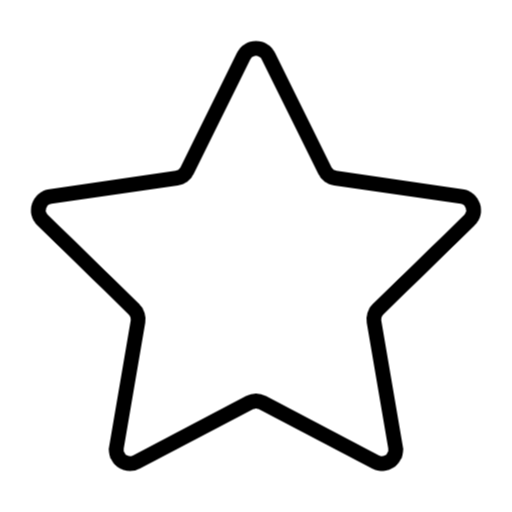
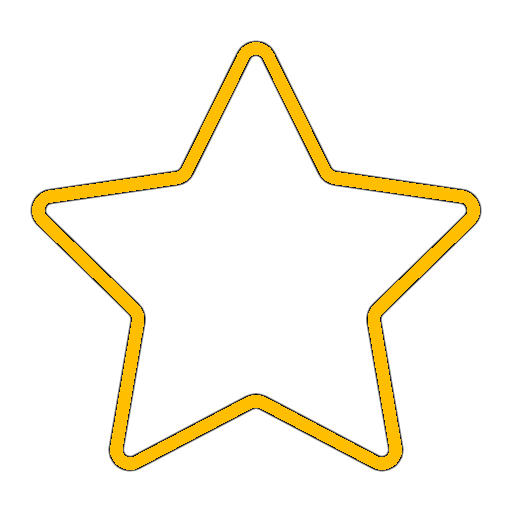
UI - update UI

Changed region(s): [[0.0625, 0.0625, 0.9375, 0.9375]]

diff --git a/src/frontend/online-book-store/src/pages/ShopBooks/BodyContent/BodyContent.js b/src/frontend/online-book-store/src/pages/ShopBooks/BodyContent/BodyContent.js
@@ -553,7 +553,7 @@ function BodyContent() {
     }, [currentPage, showPages]);
 
     return (
-        <div>
+        <div className={cx('body-wrapper')}>
             <div className={cx('wrapper')}>
                 <div className={cx('sidebar')}>
                     <p className={cx('title')}>Explore by category</p>
@@ -604,23 +604,23 @@ function BodyContent() {
                         <Products />
                         <Products />
                     </div>
-                    <div className={cx('footer')}>
-                        <span className={cx('back_btn')} onClick={handleBackPage}>
-                            <FontAwesomeIcon icon={faChevronLeft} />
-                        </span>
-                        <div className={cx('pages')}>
-                            {showPages.map((item, index) => (
-                                <a className={cx('page_item', { active: index === currentPage })} href="/" key={index}>
-                                    {item}
-                                </a>
-                            ))}
+                </div>
+                <div className={cx('footer')}>
+                    <span className={cx('back_btn')} onClick={handleBackPage}>
+                        <FontAwesomeIcon icon={faChevronLeft} />
+                    </span>
+                    <div className={cx('pages')}>
+                        {showPages.map((item, index) => (
+                            <a className={cx('page_item', { active: index === currentPage })} href="/" key={index}>
+                                {item}
+                            </a>
+                        ))}
 
-                            <span className={cx('page_item')}>...</span>
-                        </div>
-                        <span className={cx('next_btn')} onClick={handleNextPage}>
-                            <FontAwesomeIcon icon={faChevronRight} />
-                        </span>
+                        <span className={cx('page_item')}>...</span>
                     </div>
+                    <span className={cx('next_btn')} onClick={handleNextPage}>
+                        <FontAwesomeIcon icon={faChevronRight} />
+                    </span>
                 </div>
             </div>
 

diff --git a/src/frontend/online-book-store/src/pages/Home/components/IntroductionItem/IntroductionItem.js b/src/frontend/online-book-store/src/pages/Home/components/IntroductionItem/IntroductionItem.js
@@ -2,28 +2,26 @@ import classNames from 'classnames/bind';
 import styles from './IntroductionItem.module.scss';
 import Image from '~/components/Image';
 import Button from '~/components/Button';
-import config from '~/config';
 
 const cx = classNames.bind(styles);
 
-function introductionItem({ image, alt, title, paragraph, video }) {
+function introductionItem({ image, alt, title, paragraph, video, to }) {
     return (
         <div className={cx('wrapper')}>
-            {video 
-                ? 
-                    <iframe 
-                        style={{width: '50%', height: '480px'}}
-                        src={`https://www.youtube.com/embed/${video}`}
-                        title='video_demo'
-                        allowFullScreen
-                    >
-                    </iframe> 
-                :
-                    <Image className={cx('image')} src={image} alt={alt} />}
+            {video ? (
+                <iframe
+                    style={{ width: '50%', height: '480px' }}
+                    src={`https://www.youtube.com/embed/${video}`}
+                    title="video_demo"
+                    allowFullScreen
+                ></iframe>
+            ) : (
+                <Image className={cx('image')} src={image} alt={alt} />
+            )}
             <div className={cx('content')}>
                 <p className={cx('title')}>{title}</p>
                 <p className={cx('paragraph')}>{paragraph}</p>
-                <Button to={config.routes.shopbooks} types="findmore">
+                <Button to={to} types="findmore">
                     Find Out More
                 </Button>
             </div>

diff --git a/src/frontend/online-book-store/src/pages/Home/components/IntroductionBlock/IntroductionBlock.js b/src/frontend/online-book-store/src/pages/Home/components/IntroductionBlock/IntroductionBlock.js
@@ -1,4 +1,5 @@
 import IntroductionItem from '../IntroductionItem';
+import config from '~/config';
 
 function IntroductionBlock() {
     const data = [
@@ -8,19 +9,29 @@ function IntroductionBlock() {
             title: 'Books',
             paragraph:
                 'Fantasy, Fiction, Education, Self-Help, Science, Romance, Healing , Classics, Poetry, Plays, Rare Books, History.',
+            to: config.routes.shopbooks,
         },
         {
             image: 'https://www.artnews.com/wp-content/uploads/2022/09/GettyImages-1241066216.jpg?w=1200',
             alt: '',
             title: 'Hi, We are SIBOOKS',
             paragraph:
-                'SIBOOKS allows you to explore over new and second-hand books across various genres, including new releases, classics, kids\' books, young adult novels,...',
+                "SIBOOKS allows you to explore over new and second-hand books across various genres, including new releases, classics, kids' books, young adult novels,...",
             video: 'ZL5A2Qx3y_E',
+            to: config.routes.about,
         },
     ];
 
     return data.map((item, index) => (
-        <IntroductionItem image={item.image} alt={item.alt} title={item.title} paragraph={item.paragraph} video={item.video} key={index} />
+        <IntroductionItem
+            image={item.image}
+            alt={item.alt}
+            title={item.title}
+            paragraph={item.paragraph}
+            video={item.video}
+            to={item.to}
+            key={index}
+        />
     ));
 }
 

diff --git a/src/frontend/online-book-store/src/assets/index.js b/src/frontend/online-book-store/src/assets/index.js
@@ -5,12 +5,17 @@ const images = {
     logo: require('~/assets/Common/Logo.png'),
     homepage_img1: require('~/assets/HomePage/image_events_1.png'),
     homepage_img2: require('~/assets/HomePage/image_events_2.png'),
+    homepage_banner_1: require('~/assets/HomePage/banner_1.png'),
+    homepage_banner_2: require('~/assets/HomePage/banner_2.png'),
+    homepage_banner_3: require('~/assets/HomePage/banner_3.png'),
     homepage_footer_img: require('~/assets/HomePage/footer_img.png'),
     aboutpage_community_1: require('~/assets/About/About_Community_1.png'),
     aboutpage_community_2: require('~/assets/About/About_Community_2.png'),
     aboutpage_community_3: require('~/assets/About/About_Community_3.png'),
     aboutpage_community_4: require('~/assets/About/About_Community_4.png'),
     star_icon: require('~/assets/Common/StarIcon.png'),
+    default_avartar: require('~/assets/Common/defaut_avartar.jpg'),
+    default_background: require('~/assets/Common/default_background.jpg'),
 };
 
 export default images;

diff --git a/src/frontend/online-book-store/src/pages/Profile/Profile.js b/src/frontend/online-book-store/src/pages/Profile/Profile.js
@@ -8,6 +8,7 @@ import InputFieldItem from './components/InputFieldItem';
 import SelectFieldItem from './components/SelectFieldItem';
 import { COUNTRY, CITIES } from './components/Address';
 import Portfolio from './components/Portfolio';
+import assets from '~/assets';
 
 const cx = classNames.bind(styles);
 
@@ -38,11 +39,7 @@ function Profile() {
     return (
         <form className={cx('wrapper')} onSubmit={fakeHandleSubmit}>
             {/* <input type="submit" value="Sbubmit Button" /> */}
-            <Image
-                className={cx('background')}
-                src="https://wallpapers.com/images/hd/funny-cat-flying-peacefully-mtd434pqnxc308j4.jpg"
-                alt="background"
-            />
+            <Image className={cx('background')} src={assets.default_background} alt="background" />
             <div className={cx('core')}>
                 <div className={cx('information')}>
                     <div className={cx('infor_header')}>

diff --git a/src/frontend/online-book-store/src/pages/ShopBooks/BodyContent/BodyContent.module.scss b/src/frontend/online-book-store/src/pages/ShopBooks/BodyContent/BodyContent.module.scss
@@ -5,6 +5,9 @@
     align-items: baseline;
 
     width: 100%;
+    position: relative;
+
+    padding: 64px 12px;
 }
 
 .sidebar {
@@ -84,17 +87,25 @@
 /*  FOOTER  */
 
 .footer {
-    margin-top: 64px;
+    width: 100%;
     display: flex;
     align-items: center;
     justify-content: center;
+
+    background-color: var(--primary-blue);
+    padding: 16px;
+
+    position: absolute;
+    bottom: calc(-84px);
+    left: 0;
+    right: 0;
 }
 
 .back_btn,
 .next_btn {
     padding: 8px 16px;
     font-size: 2.4rem;
-    color: var(--faded-color);
+    color: var(--white);
     cursor: pointer;
 }
 
@@ -110,7 +121,7 @@
     margin-right: 64px;
     padding: 8px 16px;
     text-decoration: none;
-    color: var(--faded-color);
+    color: var(--white);
 
     &:nth-child(1) {
         margin-left: 64px;

diff --git a/src/frontend/online-book-store/src/pages/Profile/components/Portfolio/Portfolio.js b/src/frontend/online-book-store/src/pages/Profile/components/Portfolio/Portfolio.js
@@ -1,17 +1,14 @@
 import classNames from 'classnames/bind';
 import styles from './Portfolio.module.scss';
 import Image from '~/components/Image';
+import assets from '~/assets';
 
 const cx = classNames.bind(styles);
 
 function Portfolio() {
     return (
         <div className={cx('portfolio')}>
-            <Image
-                className={cx('avatar')}
-                src="https://t3.ftcdn.net/jpg/01/93/38/40/360_F_193384026_F34lj9rX9W4ixlVZBrTJmijK010Tdv0j.jpg"
-                alt="avatar"
-            />
+            <Image className={cx('avatar')} src={assets.default_avartar} alt="user_avatar" />
             <div className={cx('portfolio_body')}>
                 <ul className={cx('achievement')}>
                     <li className={cx('achievement_item')}>

diff --git a/src/frontend/online-book-store/src/pages/Home/Home.js b/src/frontend/online-book-store/src/pages/Home/Home.js
@@ -7,14 +7,11 @@ import ConnectedLine from '~/components/ConnectedLine';
 import IntroductionBlock from './components/IntroductionBlock';
 import EventBlock from './components/EventBlock';
 import EventsContent from './components/EventsContent';
+import assets from '~/assets';
 
 const cx = classNames.bind(styles);
 
-const data = [
-    'https://morgan-sindall-pztazn5y-media.s3.amazonaws.com/construction/images/OvCe_NCCLibrary_Early-Prieview-09-min.width-1600.jpg',
-    'https://images.alphacoders.com/132/1326370.png',
-    'https://cdn.mos.cms.futurecdn.net/jUMGw45Kcj8vgLmnP7HZxP.jpg',
-];
+const data = [assets.homepage_banner_1, assets.homepage_banner_2, assets.homepage_banner_3];
 
 function Home() {
     return (

diff --git a/src/frontend/online-book-store/src/components/Layouts/DefaultLayout/Header/Header.js b/src/frontend/online-book-store/src/components/Layouts/DefaultLayout/Header/Header.js
@@ -121,11 +121,7 @@ function Header() {
                 <div>
                     <Menu items={USER_MENU}>
                         <div className={cx('user')}>
-                            <Image
-                                className={cx('avatar')}
-                                src="https://encrypted-tbn0.gstatic.com/images?q=tbn:ANd9GcQ-4jCa0Y7ckqLgBkad10uQ1PWQSshwlUgVZN6GTuvx_Q&s"
-                                alt=""
-                            />
+                            <Image className={cx('avatar')} src={assets.default_avartar} alt="user_avartar" />
                             <span className={cx('name')}>John</span>
                         </div>
                     </Menu>

diff --git a/src/frontend/online-book-store/src/pages/Home/components/EventsContent/EventsContent.module.scss b/src/frontend/online-book-store/src/pages/Home/components/EventsContent/EventsContent.module.scss
@@ -13,7 +13,7 @@
     flex: 1;
     display: flex;
     flex-direction: row;
-    background-color: #415161;
+    background-color: var(--primary-blue);
     position: relative;
 
     height: 1180px;
@@ -60,7 +60,7 @@
 
 .text_item {
     max-width: 40%;
-    background-color: var(--white);
+    background-color: var(--primary-light-yellow);
     box-shadow: 0 0 4px #ccc;
     border-radius: 20px;
 
@@ -108,7 +108,7 @@
     flex-direction: row;
     align-items: center;
     justify-content: space-between;
-    background-color: #415161;
+    background-color: var(--primary-blue);
     padding: 16px;
 }
 

diff --git a/src/frontend/online-book-store/src/components/GlobalStyles/GlobalStyles.scss b/src/frontend/online-book-store/src/components/GlobalStyles/GlobalStyles.scss
@@ -5,14 +5,16 @@
     --black: #000;
     --white: #fff;
     --text-color: #161823;
-    --star-color: #ffea00;
+    --star-color: #ffbf00;
     --faded-color: #808080;
     --discount-color: #c72127;
     --order-color: #ee4d2d;
     --deepblue-color: #525f7f;
     --lightblue-bg-color: #8898aa;
     --voucher-color: #0096ff;
-    --primary-color: #ffc824;
+    --primary-color: #ffcc00;
+    --primary-blue: #003366;
+    --primary-light-yellow: #fffaeb;
 
     --font-family: 'IBM Plex Sans', sans-serif;
 

diff --git a/src/frontend/online-book-store/src/pages/Contact/conponents/FAQItem/FAQItem.module.scss b/src/frontend/online-book-store/src/pages/Contact/conponents/FAQItem/FAQItem.module.scss
@@ -1,17 +1,17 @@
 .wrapper {
     padding: 48px 0 24px 0;
-    border-bottom: 1px solid var(--black);
+    border-bottom: 1px solid var(--white);
 }
 
 .title {
     font-size: 2.4rem;
-    color: #2a2a2a;
+    color: var(--white);
     margin-bottom: 8px;
     font-style: italic;
 }
 
 .description {
     font-size: 1.6rem;
-    color: #454545;
+    color: var(--white);
     font-style: italic;
 }
